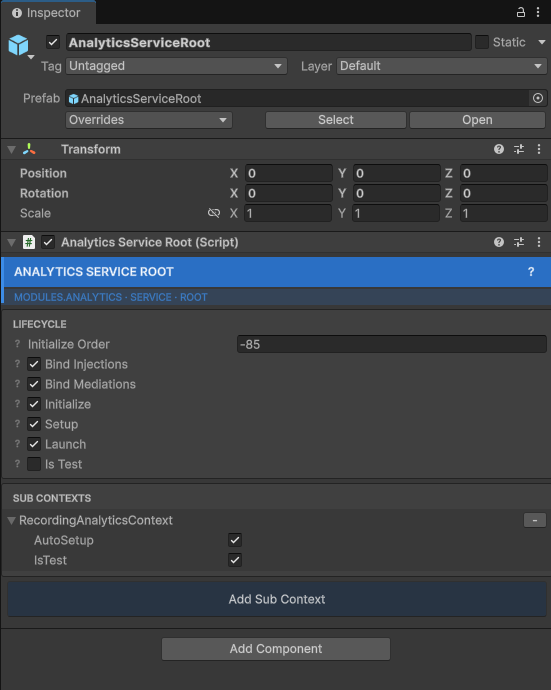
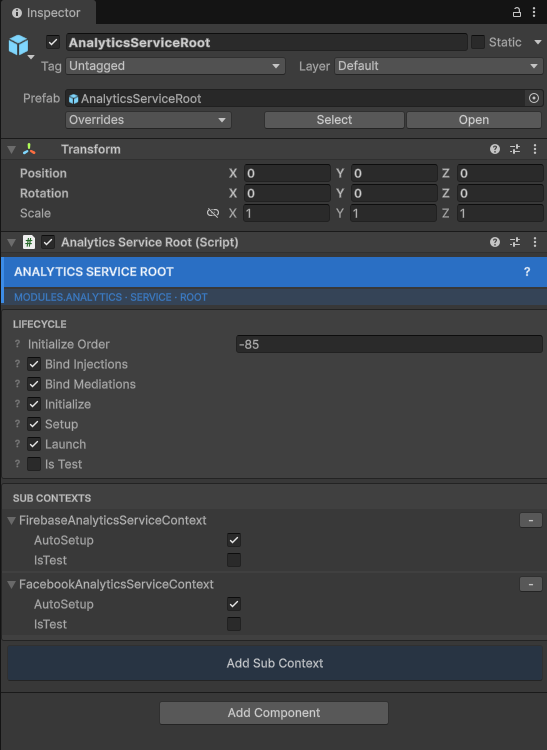
docs: the Analytics inspector shot lists the two shipped plugs
Retaken in FlowIoC-local-test, where the Firebase and Facebook plugs
compile: FirebaseAnalyticsServiceContext and FacebookAnalyticsServiceContext
on the Root, AutoSetup ticked, instead of the test scene's recording plug.

diff --git a/Editor/Help/Pages/Modules/AnalyticsModulePage.cs b/Editor/Help/Pages/Modules/AnalyticsModulePage.cs
@@ -87,8 +87,8 @@ namespace FlowIoC.Editor.Help.Pages.Modules
             painter.Space();
             painter.SubHeading("The plugs");
             painter.Image(_images.Get("AnalyticsRootInspector.png"),
-                "The Root inspector: Initialize Order -85, and under Sub Contexts one plug listed with AutoSetup ticked - "
-                + "here the test scene's recording plug; a Firebase or Facebook entry looks the same.");
+                "The Root inspector: Initialize Order -85, and under Sub Contexts the two shipped plugs listed, "
+                + "AutoSetup ticked on each.");
             painter.Note(
                 "A plug is an entry on AnalyticsServiceRoot's Sub Context Types: Add Sub Context > "
                 + "FirebaseAnalyticsServiceContext, FacebookAnalyticsServiceContext, or your own, with "
